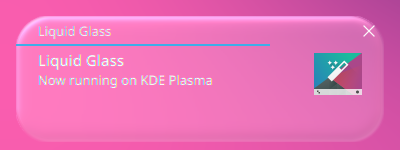
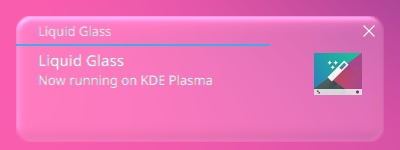
KDE: smaller corners for notifications so the close button stays inside
Plasma lays the notification header and close button out to the popup's
corner, which fell outside 34px glass corners. Notifications now use
NotificationCornerRadius (16px). Retake the screenshots.

diff --git a/kde-liquid-glass/src/liquidglass.cpp b/kde-liquid-glass/src/liquidglass.cpp
@@ -232,6 +232,7 @@ void LiquidGlassEffect::reconfigure(ReconfigureFlags)
     m_expandSize = blurOffsets[m_iterationCount - 1].expandSize;
     m_cornerRadius = conf.readEntry("CornerRadius", 34.0);
     m_pillPanels = conf.readEntry("PillPanels", true);
+    m_notificationCornerRadius = conf.readEntry("NotificationCornerRadius", 16.0);
     const QColor tint(conf.readEntry("TintColor", QStringLiteral("#ffffff")));
     m_tint = QVector3D(tint.redF(), tint.greenF(), tint.blueF());
 
@@ -738,6 +739,9 @@ void LiquidGlassEffect::blur(const RenderTarget &renderTarget, const RenderViewp
         if (w->isDock() && m_pillPanels) {
             // Panels and docks are capsules; the shader clamps the radius to half the short side.
             cornerRadius = std::min(backgroundRect.width(), backgroundRect.height()) * 0.5;
+        } else if (w->isNotification() || w->isCriticalNotification()) {
+            // Plasma lays the notification header (and its close button) out to the popup's corner.
+            cornerRadius = m_notificationCornerRadius;
         } else if (const BorderRadius radius = w->window()->borderRadius(); !radius.isNull()) {
             cornerRadius = radius.topLeft();
         }

diff --git a/kde-liquid-glass/src/liquidglass.h b/kde-liquid-glass/src/liquidglass.h
@@ -124,6 +124,7 @@ private:
     std::vector<FloatParam> m_params;
     float m_cornerRadius = 26.0;
     bool m_pillPanels = true;
+    float m_notificationCornerRadius = 16.0;
     QVector3D m_tint{1, 1, 1};
 
     bool m_valid = false;

diff --git a/kde-liquid-glass/README.md b/kde-liquid-glass/README.md
@@ -111,7 +111,8 @@ qdbus6 org.kde.KWin /KWin reconfigure
 | Key | Default | |
 |---|---|---|
 | BlurStrength | 5 | 1–15, same scale as KWin Blur |
-| CornerRadius | 34 | px, for popups, notifications and OSDs; a window's own rounded corners win if it has them |
+| CornerRadius | 34 | px, for popups and OSDs; a window's own rounded corners win if it has them |
+| NotificationCornerRadius | 16 | px; smaller because Plasma puts the notification close button in the corner |
 | PillPanels | true | draw panels and docks as capsules (radius = half their thickness) |
 | TintColor | #ffffff | |
 | TintStrength | 0.15 | |
